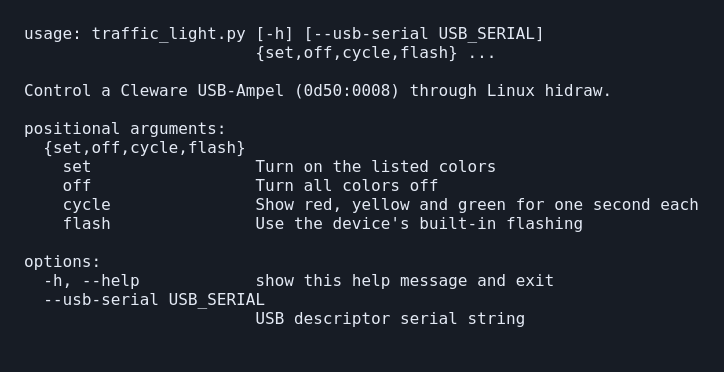
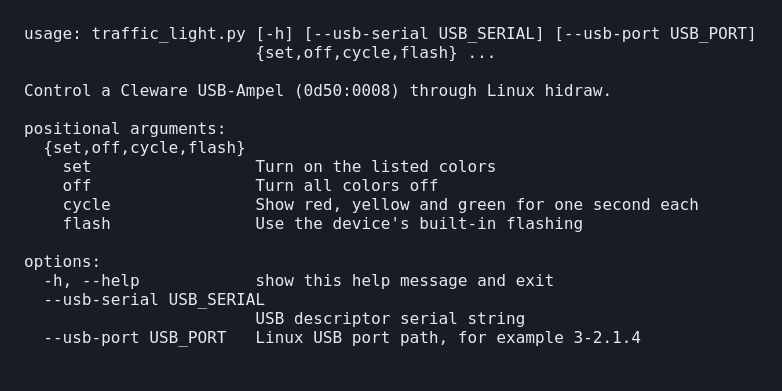
fix(usb): distinguish lights with identical descriptor strings
USB-02 USB-05. Enumerate kernel HID nodes and match their IDs. Require a physical USB port when descriptor strings collide.

diff --git a/20261126_USB_Traffic_Light/traffic_light.py b/20261126_USB_Traffic_Light/traffic_light.py
@@ -10,25 +10,40 @@ from pathlib import Path
 
 CHANNELS = {"red": 0x10, "yellow": 0x11, "green": 0x12}
 FLASH = {"0.5": 16, "1": 17, "2": 18}
-DEVICE_DIR = Path("/dev/input/by-id")
-DEVICE_PREFIX = "usb-Cleware_GmbH_USB-Ampel_"
+DEVICE_DIR = Path("/dev")
+HIDRAW_SYSFS_DIR = Path("/sys/class/hidraw")
+HID_ID = "0003:00000D50:00000008"
 
 
-def find_device(serial):
-    devices = [
-        path
-        for path in sorted(DEVICE_DIR.glob(f"{DEVICE_PREFIX}*-hidraw"))
-        if serial is None or path.name == f"{DEVICE_PREFIX}{serial}-hidraw"
-    ]
+def find_device(serial, port=None):
+    devices = []
+    for entry in sorted(HIDRAW_SYSFS_DIR.glob("hidraw*")):
+        try:
+            hid = (entry / "device").resolve(strict=True)
+            uevent = (hid / "uevent").read_text(encoding="utf-8")
+        except FileNotFoundError:
+            continue
+        properties = dict(
+            line.split("=", 1) for line in uevent.splitlines() if "=" in line
+        )
+        if properties.get("HID_ID") != HID_ID:
+            continue
+        if serial is not None and properties.get("HID_UNIQ") != serial:
+            continue
+        if port is not None and port not in hid.parts:
+            continue
+        devices.append(DEVICE_DIR / entry.name)
     if not devices:
         raise OSError("No matching Cleware USB-Ampel found")
     if len(devices) > 1:
-        raise OSError("Multiple Cleware USB-Ampel devices found. Use --usb-serial.")
+        raise OSError(
+            "Multiple Cleware USB-Ampel devices found. Use --usb-serial or --usb-port."
+        )
     return devices[0]
 
 
 def write_channel(device, color, state):
-    # Linux adds a leading report ID byte even for unnumbered HID reports.
+    # hidraw expects a leading zero for an unnumbered report.
     report = bytes((0, 0, CHANNELS[color], state))
     if os.write(device.fileno(), report) != len(report):
         raise OSError(f"Incomplete USB report for {color}")
@@ -57,6 +72,7 @@ def cycle(device):
 def main():
     parser = argparse.ArgumentParser(description=__doc__)
     parser.add_argument("--usb-serial", help="USB descriptor serial string")
+    parser.add_argument("--usb-port", help="Linux USB port path, for example 3-2.1.4")
     commands = parser.add_subparsers(dest="command", required=True)
     steady = commands.add_parser("set", help="Turn on the listed colors")
     steady.add_argument("colors", nargs="+", choices=CHANNELS)
@@ -68,7 +84,7 @@ def main():
 
     args = parser.parse_args()
     try:
-        path = find_device(args.usb_serial)
+        path = find_device(args.usb_serial, args.usb_port)
         with path.open("wb", buffering=0) as device:
             fcntl.flock(device, fcntl.LOCK_EX)
             if args.command == "cycle":

diff --git a/20261126_USB_Traffic_Light/tests/test_traffic_light.py b/20261126_USB_Traffic_Light/tests/test_traffic_light.py
@@ -25,12 +25,26 @@ class CommandsTest(unittest.TestCase):
         workspace = self.enterContext(tempfile.TemporaryDirectory())
         self.directory = Path(workspace)
         self.enterContext(patch.object(light, "DEVICE_DIR", self.directory))
+        self.sysfs = self.directory / "sysfs"
+        self.sysfs.mkdir()
+        self.enterContext(patch.object(light, "HIDRAW_SYSFS_DIR", self.sysfs))
         self.wait = self.enterContext(patch.object(light.time, "sleep"))
         self.stdout = self.enterContext(contextlib.redirect_stdout(io.StringIO()))
         self.device = self.add_device("63813")
 
-    def add_device(self, serial):
-        device = self.directory / f"usb-Cleware_GmbH_USB-Ampel_{serial}-hidraw"
+    def add_device(self, serial, port=None):
+        index = len(list(self.sysfs.iterdir()))
+        node = f"hidraw{index}"
+        port = port or f"1-{index+1}"
+        entry = self.sysfs / node
+        entry.mkdir()
+        hid = self.directory / "devices" / port / f"{port}:1.0" / node
+        hid.mkdir(parents=True)
+        (entry / "device").symlink_to(hid, target_is_directory=True)
+        (hid / "uevent").write_text(
+            f"HID_ID=0003:00000D50:00000008\nHID_UNIQ={serial}\n", encoding="utf-8"
+        )
+        device = self.directory / node
         device.touch()
         return device
 
@@ -109,6 +123,22 @@ class CommandsTest(unittest.TestCase):
         self.add_device("another")
         self.check_cli_error("Multiple Cleware", "off")
         self.check_cli_error("invalid choice", "set", "blue", code=2)
+
+    def test_identical_descriptor_serials_require_a_usb_port(self):
+        other = self.add_device("63813", port="1-2")
+        self.check_cli_error("Multiple Cleware", "--usb-serial", "63813", "off")
+        self.assertEqual(self.run_cli("--usb-port", "1-2", "set", "red"), 0)
+        self.assertEqual(
+            other.read_bytes(), bytes.fromhex("00001100 00001200 00001001")
+        )
+        self.assertEqual(self.device.read_bytes(), b"")
+
+    def test_ignores_disappeared_and_unrelated_hid_nodes(self):
+        (self.sysfs / "hidraw9").mkdir()
+        unrelated = self.add_device("other")
+        event = self.sysfs / unrelated.name / "device" / "uevent"
+        event.write_text("HID_ID=0003:00000000:00000000\n", encoding="utf-8")
+        self.assertEqual(light.find_device(None), self.device)
 
     def test_device_permission_error(self):
         with patch.object(

diff --git a/20261126_USB_Traffic_Light/agent_status.py b/20261126_USB_Traffic_Light/agent_status.py
@@ -246,14 +246,15 @@ def read_profiles(home, codex, now):
     return result
 
 
-def show_color(color):
-    with find_device(None).open("wb", buffering=0) as device:
+def show_color(color, port=None):
+    with find_device(None, port).open("wb", buffering=0) as device:
         fcntl.flock(device, fcntl.LOCK_EX)
         set_lights(device, () if color == "off" else (color,))
 
 
 def main(argv=None):
     parser = argparse.ArgumentParser(description=__doc__)
+    parser.add_argument("--usb-port", help="Linux USB port path, for example 3-2.1.4")
     parser.add_argument("--once", action="store_true", help="Check once and exit")
     parser.add_argument(
         "--dry-run", action="store_true", help="Print status without writing to USB"
@@ -281,7 +282,7 @@ def main(argv=None):
                 previous = line
             if not args.dry_run:
                 try:
-                    show_color(color)
+                    show_color(color, args.usb_port)
                     last_usb_error = None
                 except OSError as error:
                     if args.once:

diff --git a/20261126_USB_Traffic_Light/tests/test_agent_status.py b/20261126_USB_Traffic_Light/tests/test_agent_status.py
@@ -262,8 +262,8 @@ class CliTest(unittest.TestCase):
             monitor.main(["--once", "--dry-run"])
             show.assert_not_called()
             self.assertIn("yellow", output.getvalue())
-            monitor.main(["--once"])
-            show.assert_called_once_with("yellow")
+            monitor.main(["--once", "--usb-port", "1-2"])
+            show.assert_called_once_with("yellow", "1-2")
 
     def test_reports_usb_failure_and_recovers_on_later_scan(self):
         with (

diff --git a/20261126_USB_Traffic_Light/README.md b/20261126_USB_Traffic_Light/README.md
@@ -123,8 +123,9 @@ Use `set` to replace the full light state. It switches off any color you do not 
 Use `flash` with an interval of `0.5`, `1` or `2` seconds.
 The program sends changes in separate reports, one per channel.
 The channel changes can therefore take effect at slightly different times.
-If you connect more than one matching light, use `--usb-serial` to select a device by its USB descriptor string.
-If two units expose the same marker, their descriptor strings alone cannot tell them apart.
+If you connect more than one light, use `--usb-serial` when the USB descriptor strings differ.
+If the strings match, use `--usb-port` with the physical port path, for example `3-2.1.4`.
+Use `udevadm info -q path -n /dev/hidraw9` to see a node's USB path. Use the node name for your light.
 
 ### Temporary access
 

diff --git a/20261126_USB_Traffic_Light/docs/agent-status.md b/20261126_USB_Traffic_Light/docs/agent-status.md
@@ -57,6 +57,7 @@ Use Python 3.14 on Linux. Run the commands from the project directory.
 
 The monitor waits five seconds between scans. Use `--once` to write one color and exit.
 The light keeps the last color after the process stops.
+Use `--usb-port` to select one light when several are connected.
 Use the [udev setup](../README.md#setup-and-use) for USB access after replug.
 
 ## Color and source rules
